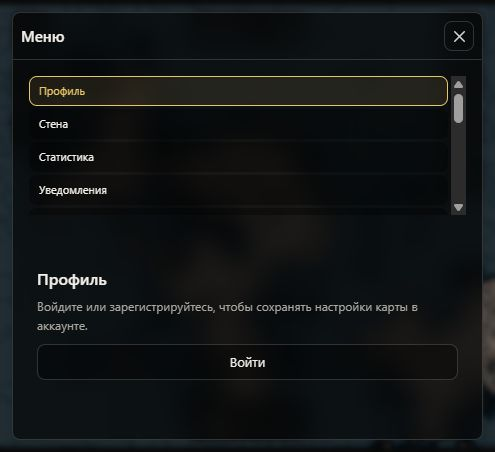
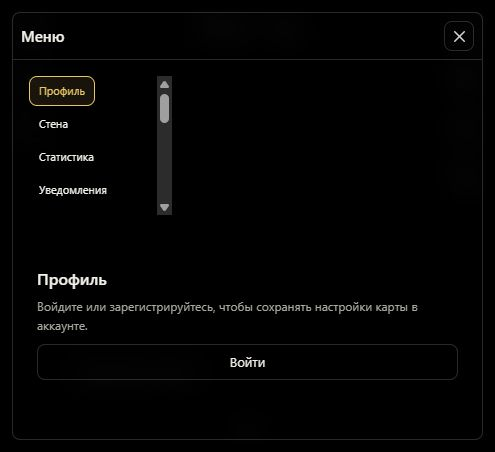
Size menu navigation to its longest tab

diff --git a/viewer.css b/viewer.css
@@ -54,12 +54,12 @@ dialog:not(.auth-dialog) #modal-content{flex:1;min-height:0;overflow:visible}
 @media(max-height:450px){.dock{top:12px}.drawer{top:12px;max-height:none}.selection{max-height:none}.modal-shell header{padding:8px}.menu-tabs button{padding:4px;font-size:10px}dialog:not(.auth-dialog) #modal-content{padding:10px}}
 
 /* Menu navigation stays a single compact, scrollable column at every size. */
-dialog:not(.auth-dialog) .menu-layout{grid-template-columns:minmax(160px,20%) minmax(0,1fr)}
-dialog:not(.auth-dialog) .menu-tabs{display:flex;flex-direction:column;flex-wrap:nowrap;gap:3px;min-height:0;max-height:100%;overflow-y:auto;overflow-x:hidden;padding-right:3px}
-dialog:not(.auth-dialog) .menu-tabs button{flex:0 0 auto;min-height:30px;height:30px;padding:5px 9px;font-size:11px;line-height:1.2}
+dialog:not(.auth-dialog) .menu-layout{grid-template-columns:max-content minmax(0,1fr)}
+dialog:not(.auth-dialog) .menu-tabs{display:flex;width:max-content;max-width:100%;flex-direction:column;flex-wrap:nowrap;gap:3px;min-height:0;max-height:100%;overflow-y:auto;overflow-x:hidden;padding-right:3px}
+dialog:not(.auth-dialog) .menu-tabs button{flex:0 0 auto;width:max-content;max-width:100%;min-height:30px;height:30px;padding:5px 9px;font-size:11px;line-height:1.2}
 @media(max-width:760px){
   dialog:not(.auth-dialog) .menu-layout{grid-template-columns:minmax(0,1fr);grid-template-rows:minmax(0,40%) minmax(0,1fr);gap:10px}
-  dialog:not(.auth-dialog) .menu-tabs{max-height:none}
+  dialog:not(.auth-dialog) .menu-tabs{max-height:none;justify-self:start}
 }
 dialog.auth-dialog{width:min(460px,calc(100vw - 24px));max-height:none}
 dialog.auth-dialog .modal-shell{max-height:none}dialog.auth-dialog #modal-content{overflow:visible}
